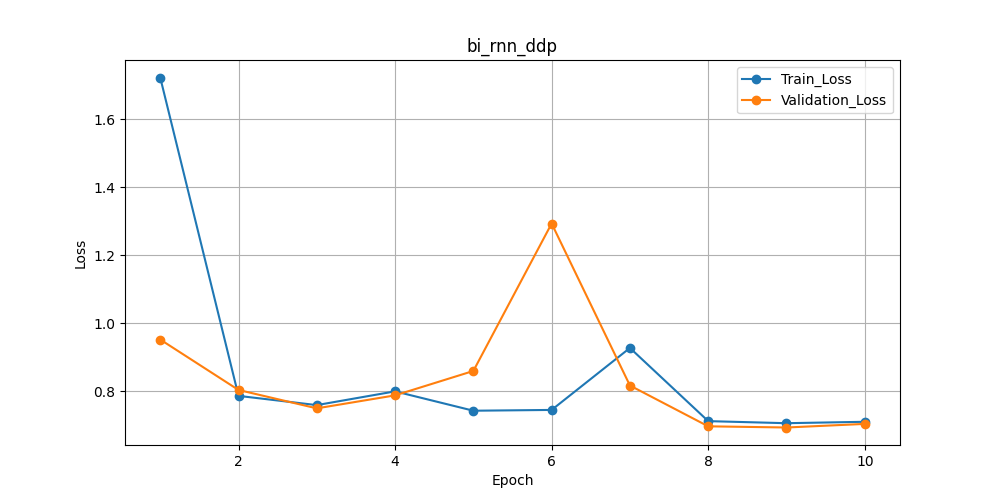
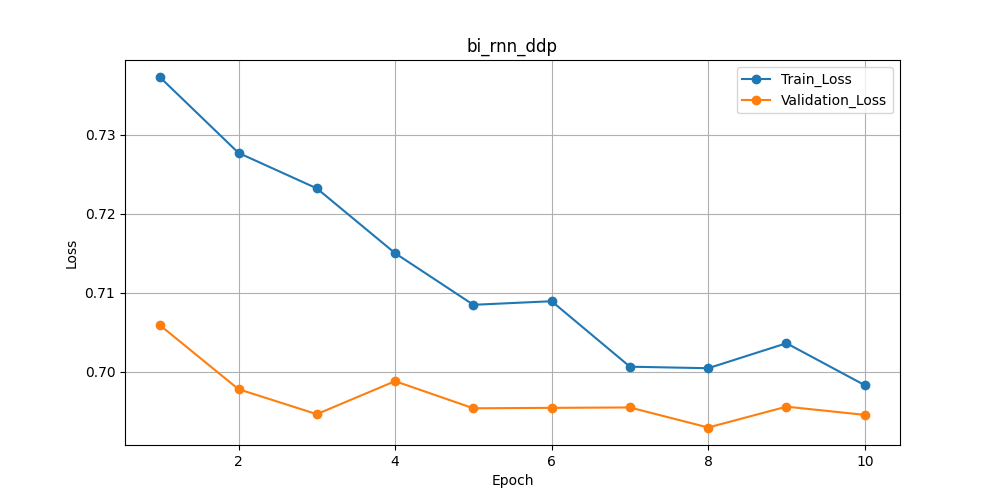
data pipeline modified

diff --git a/2024-03-22/data.py b/2024-03-22/data.py
@@ -2,20 +2,23 @@ import os
 import torch
 import pandas as pd
 
+from collections import Counter
+from torchtext.data.utils import get_tokenizer
 from torch.utils.data import Dataset, random_split
 from torchtext.vocab import build_vocab_from_iterator
 
+
 class IMDBDataset(Dataset):
-    def __init__(self, root, tokenizer, train=True):
+    def __init__(self, root, tokenizer, vocab_size, train=True):
         super().__init__()
         
         # setting
-        self.train = train
-        if self.train:
+        if train:
             self.root = os.path.join(root, "train.csv")
         else:
             self.root = os.path.join(root, "test.csv")
         self.data = pd.read_csv(self.root) # data load
+        self.vocab_size = vocab_size
         self.tokenizer = tokenizer
         
         # text 데이터
@@ -50,7 +53,12 @@ class IMDBDataset(Dataset):
 
     # tokenized된 text를 통해 vocab 생성
     def _build_vocab(self, raw_text):
-        vocab = build_vocab_from_iterator(self._yield_tokens(raw_text), specials=["<pad>", "<unk>"])
+        counter = Counter()
+        for tokens in self._yield_tokens(raw_text):
+            counter.update(tokens)
+        
+        tokens_for_vocab = counter.most_common(self.vocab_size)
+        vocab = build_vocab_from_iterator(dict(tokens_for_vocab), specials=["<pad>", "<unk>"])
         vocab.set_default_index(vocab["<pad>"])
         vocab.set_default_index(vocab["<unk>"])
         return vocab
@@ -66,7 +74,8 @@ class IMDBDataset(Dataset):
 
 if __name__ == '__main__':
     data_path = '../../datasets/IMDB/'
-    dataset = IMDBDataset(data_path)
+    tokenizer = get_tokenizer('basic_english')
+    dataset = IMDBDataset(data_path, tokenizer=tokenizer, vocab_size=40000)
     train_dataset, _ = dataset.split_dataset(ratio=0.2)
     
     text, label = train_dataset[0]

diff --git a/2024-03-22/test.py b/2024-03-22/test.py
@@ -7,13 +7,17 @@ from torch.utils.data import DataLoader
 
 from data import IMDBDataset
 from net import SentenceClassifier  # 이미 정의된 모델 클래스 사용
-from train import collate_fn
+from train import collate_fn, tokenizer_type
 
 parser = argparse.ArgumentParser()
 # -- path setting
 parser.add_argument("--data_path", type=str, default="../../datasets/IMDB/")
 parser.add_argument("--weight_path", type=str, default="../../pth/IMDB/")
 parser.add_argument("--pth_name", type=str, default="lstm_ddp")
+
+# -- data setting
+parser.add_argument("--tokenizer", type=str, default='torchtext')
+parser.add_argument("--vocab_size", type=int, default=40000)
 
 # -- model setting
 parser.add_argument("--model", type=str, default='gru')
@@ -28,7 +32,7 @@ parser.add_argument("--batch_size", type=int, default=32)
 
 def main():
     device = torch.device("cuda" if torch.cuda.is_available() else "cpu")
-    test_dataset = IMDBDataset(root=args.data_path, train=False)
+    test_dataset = IMDBDataset(root=args.data_path, train=False, tokenizer=tokenizer_type(), vocab_size=args.vocab_size)
     test_loader = DataLoader(test_dataset, batch_size=args.batch_size, shuffle=False, collate_fn=collate_fn)
 
     weight_path = os.path.join(args.weight_path, args.pth_name + '.pth')

diff --git a/2024-03-22/train.py b/2024-03-22/train.py
@@ -23,7 +23,8 @@ from net import SentenceClassifier
 parser = argparse.ArgumentParser()
 # -- hyperparameter about data
 parser.add_argument("--data_path", type=str, default="../../datasets/IMDB/")
-parser.add_argument("--tokenzier", type=str, default='torchtext')
+parser.add_argument("--tokenizer", type=str, default='nltk')
+parser.add_argument("--vocab_size", type=int, default=40000)
 parser.add_argument("--ratio", type=float, default=0.2)
 
 # -- hyperparameter about ddp &amp
@@ -100,7 +101,7 @@ def main():
     device = torch.device("cuda" if torch.cuda.is_available() else "cpu")
     
     # IMDBDataset
-    dataset = IMDBDataset(args.data_path, tokenizer=tokenizer_type())
+    dataset = IMDBDataset(args.data_path, tokenizer=tokenizer_type(), vocab_size=args.vocab_size)
     train_dataset, val_dataset  = dataset.split_dataset(ratio=args.ratio)
     vocab_size = len(dataset.vocab)
     
